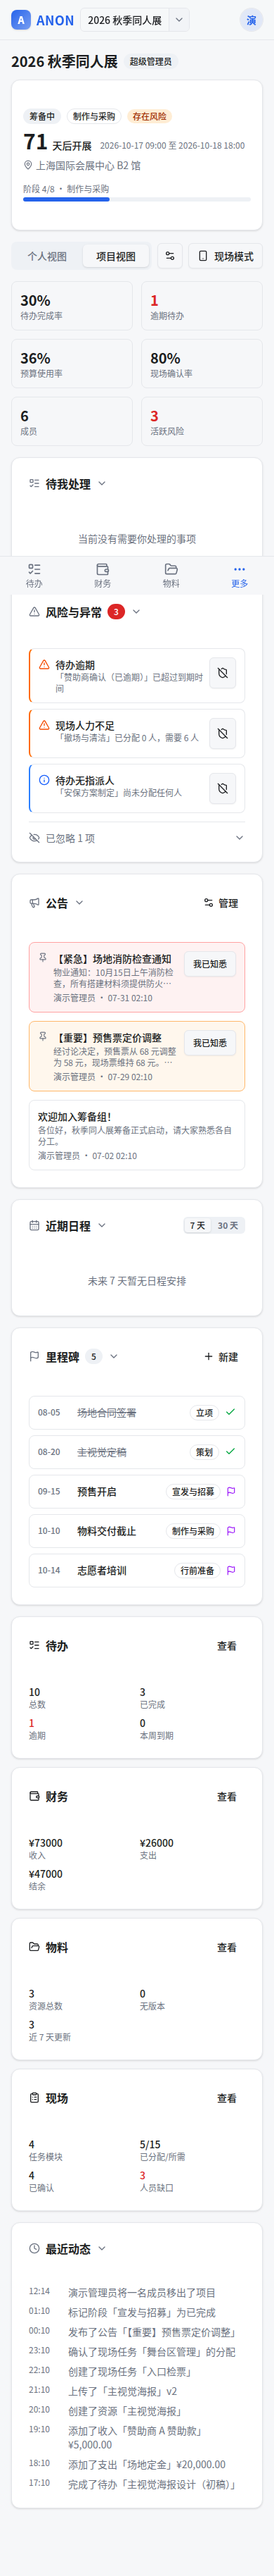
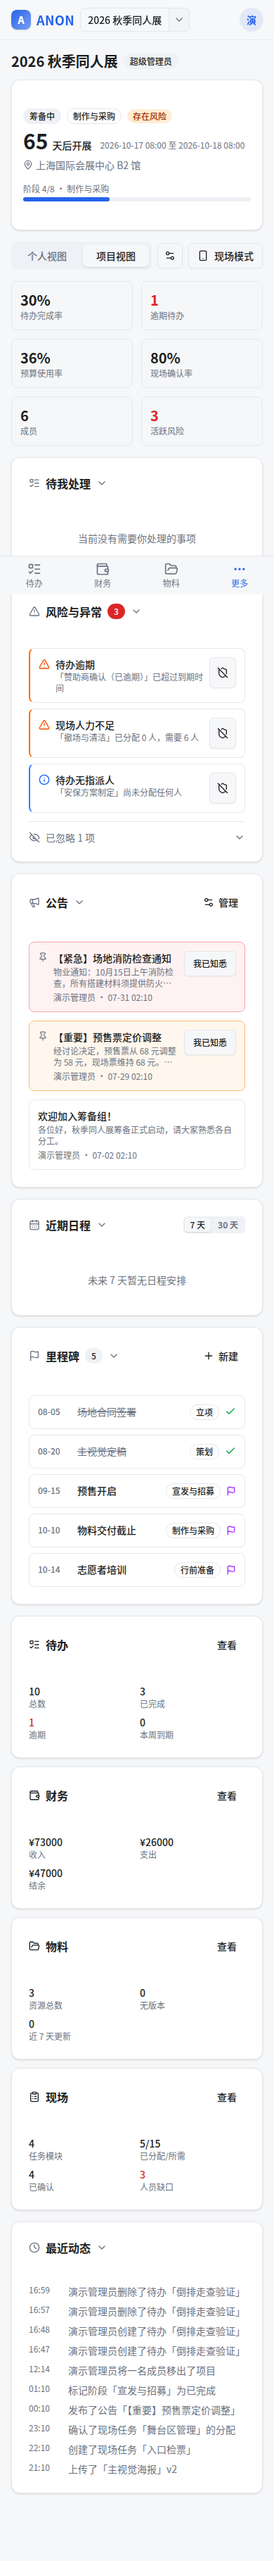
feat: 待办日期字段支持开展倒排录入
到期/节点/提醒三个日期字段新增「开展倒排」开关（项目已设开展日期时显示），
按「开展前 N 天 + 时刻」录入并实时预览换算结果；倒排仅为录入辅助，保存时
一次性换算为绝对日期入库，开展日期变更不联动重算。纯前端，契约零改动。

diff --git a/frontend/src/components/project/TodoFormDialog.tsx b/frontend/src/components/project/TodoFormDialog.tsx
@@ -2,23 +2,114 @@ import { useEffect, useState, type FormEvent } from 'react';
 import { ChevronDown } from 'lucide-react';
 import { toast } from 'sonner';
 import { api } from '../../api/client';
+import { daysBeforeLocal } from '../../lib/datetime';
 import type { Member, TodoItem } from '../../types';
 import { FormOverlay } from '@/components/FormOverlay';
 import { Button } from '@/components/ui/button';
 import { Checkbox } from '@/components/ui/checkbox';
 import { Input } from '@/components/ui/input';
 import { Label } from '@/components/ui/label';
+import { Switch } from '@/components/ui/switch';
 import { Textarea } from '@/components/ui/textarea';
 
 interface Props {
   open: boolean;
   onOpenChange: (open: boolean) => void;
   projectId: string;
+  /** 项目开展日期 ISO；为 null 时日期字段不显示「开展倒排」开关 */
+  startDate: string | null;
   members: Member[];
   knownCategories: string[];
   /** 完整 TodoItem = 编辑模式；{ title } = 创建模式（可预填标题） */
   initial?: TodoItem | { title: string };
   onSaved: () => Promise<void>;
+}
+
+interface TodoDateFieldProps {
+  id: string;
+  label: string;
+  /** datetime-local 值，仍由外层 useState 持有；倒排模式下换算结果直接写回同一 value */
+  value: string;
+  onChange: (v: string) => void;
+  startDate: string | null;
+}
+
+/** 日期字段：默认绝对时间录入；startDate 非空时可切「开展倒排」（开展前 N 天 + 时刻），换算结果实时写回 value，
+ *  保存后与普通绝对日期走同一提交链路。子状态随 Dialog 关闭卸载，无需显式 reset。 */
+function TodoDateField({ id, label, value, onChange, startDate }: TodoDateFieldProps) {
+  const [rel, setRel] = useState(false);
+  const [days, setDays] = useState('1');
+  const [time, setTime] = useState('12:00');
+
+  /** days 允许输入中暂为空串，换算时按 0 处理 */
+  const applyRel = (d: string, t: string) => {
+    if (!startDate) return;
+    onChange(daysBeforeLocal(startDate, parseInt(d) || 0, t));
+  };
+
+  const onToggle = (on: boolean) => {
+    setRel(on);
+    if (on) {
+      const t = value ? value.slice(11, 16) : '12:00';
+      setDays('1');
+      setTime(t);
+      if (startDate) onChange(daysBeforeLocal(startDate, 1, t));
+    }
+    // 关闭倒排：当前换算值保留在 datetime-local 中可继续手改
+  };
+
+  return (
+    <div className="space-y-1.5">
+      <div className="flex items-center justify-between">
+        <Label htmlFor={id}>{label}</Label>
+        {startDate && (
+          <label className="flex items-center gap-1.5 text-xs text-muted-foreground">
+            开展倒排
+            <Switch checked={rel} onCheckedChange={onToggle} />
+          </label>
+        )}
+      </div>
+      {!rel ? (
+        <Input
+          id={id}
+          type="datetime-local"
+          value={value}
+          onChange={(e) => onChange(e.target.value)}
+        />
+      ) : (
+        <div className="space-y-1.5">
+          <div className="flex items-center gap-2 text-sm text-muted-foreground">
+            开展前
+            <Input
+              id={id}
+              type="number"
+              min={0}
+              max={3650}
+              step={1}
+              className="w-20"
+              value={days}
+              onChange={(e) => {
+                setDays(e.target.value);
+                applyRel(e.target.value, time);
+              }}
+            />
+            天
+            <Input
+              type="time"
+              className="w-28"
+              aria-label="时刻"
+              value={time}
+              onChange={(e) => {
+                setTime(e.target.value);
+                applyRel(days, e.target.value);
+              }}
+            />
+          </div>
+          {value && <p className="text-xs text-muted-foreground">= {value.replace('T', ' ')}</p>}
+        </div>
+      )}
+    </div>
+  );
 }
 
 function toIso(v: string): string | undefined {
@@ -37,7 +128,7 @@ function isEdit(initial?: TodoItem | { title: string }): initial is TodoItem {
   return !!initial && 'id' in initial;
 }
 
-export function TodoFormDialog({ open, onOpenChange, projectId, members, knownCategories, initial, onSaved }: Props) {
+export function TodoFormDialog({ open, onOpenChange, projectId, startDate, members, knownCategories, initial, onSaved }: Props) {
   const editTarget = isEdit(initial) ? initial : null;
   const [title, setTitle] = useState('');
   const [assigneeIds, setAssigneeIds] = useState<string[]>([]);
@@ -134,15 +225,7 @@ export function TodoFormDialog({ open, onOpenChange, projectId, members, knownCa
             ))}
           </div>
         </div>
-        <div className="space-y-1.5">
-          <Label htmlFor="todo-form-due">到期时间</Label>
-          <Input
-            id="todo-form-due"
-            type="datetime-local"
-            value={dueAt}
-            onChange={(e) => setDueAt(e.target.value)}
-          />
-        </div>
+        <TodoDateField id="todo-form-due" label="到期时间" value={dueAt} onChange={setDueAt} startDate={startDate} />
 
         <button
           type="button"
@@ -167,24 +250,8 @@ export function TodoFormDialog({ open, onOpenChange, projectId, members, knownCa
                 {knownCategories.map((c) => <option key={c} value={c} />)}
               </datalist>
             </div>
-            <div className="space-y-1.5">
-              <Label htmlFor="todo-form-node">节点时间</Label>
-              <Input
-                id="todo-form-node"
-                type="datetime-local"
-                value={nodeAt}
-                onChange={(e) => setNodeAt(e.target.value)}
-              />
-            </div>
-            <div className="space-y-1.5">
-              <Label htmlFor="todo-form-remind">提醒时间</Label>
-              <Input
-                id="todo-form-remind"
-                type="datetime-local"
-                value={remindAt}
-                onChange={(e) => setRemindAt(e.target.value)}
-              />
-            </div>
+            <TodoDateField id="todo-form-node" label="节点时间" value={nodeAt} onChange={setNodeAt} startDate={startDate} />
+            <TodoDateField id="todo-form-remind" label="提醒时间" value={remindAt} onChange={setRemindAt} startDate={startDate} />
             <div className="space-y-1.5">
               <Label htmlFor="todo-form-note">备注</Label>
               <Textarea

diff --git a/frontend/src/components/help/content.ts b/frontend/src/components/help/content.ts
@@ -193,6 +193,7 @@ export const HELP_CHAPTERS: HelpChapter[] = [
         paragraphs: [
           '列表顶部的快速创建行：输入标题回车即建，适合现场随手记；右侧「详细」可带着已输入的标题打开完整表单。',
           '详细表单默认可见 标题、指派人、到期时间；「更多字段」展开后可填 类别（历史类别自动补全）、节点时间、提醒时间与备注。',
+          '项目已设开展日期时，三个日期字段右侧会出现「开展倒排」开关：开启后按「开展前 N 天 + 时刻」录入，下方实时预览换算出的具体日期时间。保存的只是换算后的绝对日期，之后调整开展日期不会联动修改已建待办；未设开展日期的项目不显示该开关。',
           '创建需要「创建待办」权限（预置角色默认包含）。',
         ],
         image: { src: '/help/tab-todos.png', alt: '待办 Tab', caption: '待办 Tab：快速创建、分组列表与进度时间线' },

diff --git a/frontend/src/lib/datetime.ts b/frontend/src/lib/datetime.ts
@@ -81,3 +81,13 @@ export function eventCountdown(startDate: string | null, endDate: string | null)
     cls: 'text-muted-foreground',
   };
 }
+
+/** 开展倒排换算：startIso 的本地日历日往前推 days 天，时刻设为 time（"HH:mm"）；返回 datetime-local 输入值。
+ *  输入非法返回空串。月份/年份回绕由 Date 构造函数自动处理。 */
+export function daysBeforeLocal(startIso: string, days: number, time: string): string {
+  const s = new Date(startIso);
+  if (Number.isNaN(s.getTime())) return '';
+  const [hh, mm] = time.split(':').map(Number);
+  const d = new Date(s.getFullYear(), s.getMonth(), s.getDate() - Math.max(0, Math.trunc(days)), hh || 0, mm || 0, 0, 0);
+  return toLocalInput(d.toISOString());
+}

diff --git a/frontend/src/components/project/TodosTab.tsx b/frontend/src/components/project/TodosTab.tsx
@@ -426,6 +426,7 @@ export default function TodosTab({ project, members, myPermissions }: Props) {
         open={formInitial !== null}
         onOpenChange={(o) => !o && setFormInitial(null)}
         projectId={project.id}
+        startDate={project.startDate}
         members={members}
         knownCategories={knownCategories}
         initial={formInitial ?? undefined}

diff --git a/docs/file-index.md b/docs/file-index.md
@@ -143,7 +143,7 @@
 - `src/types.ts` — 全部 API 共享类型
 - `src/index.css` — Tailwind v4 主题变量与全局样式
 - `src/vite-env.d.ts` — Vite / vite-plugin-pwa 客户端类型引用
-- `src/lib/datetime.ts` — 本地时间格式化 + 活动倒计时
+- `src/lib/datetime.ts` — 本地时间格式化 + 活动倒计时 + 开展倒排换算（daysBeforeLocal）
 - `src/lib/offlineQueue.ts` — 离线 POST 队列（现场模式用）
 - `src/lib/push.ts` — Web Push 订阅管理
 - `src/lib/utils.ts` — cn() 类名合并
@@ -173,7 +173,7 @@
 
 ### 项目 Tab `src/components/project/`（挂在 ProjectHome，直调对应后端域）
 - `DashboardTab.tsx` — 仪表盘聚合（内嵌公告/里程碑/阶段卡）
-- `TodosTab.tsx` + `TodoFormDialog.tsx` + `TodoActionSheet.tsx` — 待办列表/表单/完成与进度弹层
+- `TodosTab.tsx` + `TodoFormDialog.tsx` + `TodoActionSheet.tsx` — 待办列表/表单（日期字段支持开展倒排录入）/完成与进度弹层
 - `FinanceTab.tsx` — 记账/门票/CSV 导出
 - `MaterialsTab.tsx` — 资料分类/版本/实物入口
 - `PhysicalTab.tsx` — 实物分类/台账/状态/日志

diff --git a/docs/features.md b/docs/features.md
@@ -245,6 +245,7 @@ ANON 是一个面向活动（展会、同人活动、演出等）组织团队的
 
 - **快速创建**（列表顶部）：输入标题回车即建，适合现场随手记。右侧「详细」可带着已输入的标题打开完整表单
 - **详细表单**：默认可见 标题（必填）/ 指派人（成员多选）/ 到期时间；「更多字段」折叠区展开后可填 类别（历史类别自动补全）、节点时间、提醒时间、备注
+- **开展倒排录入**：项目已设开展日期时，到期/节点/提醒三个日期字段右侧出现「开展倒排」开关；开启后按「开展前 N 天 + 时刻」录入并实时预览换算结果。倒排仅是录入辅助——保存时一次性换算为绝对日期入库，之后修改开展日期不会联动重算已建待办；未设开展日期的项目不显示开关
 - 需要 `todo:create` 权限（预置角色默认包含；既有项目的自定义角色可由管理者在「角色」Tab 勾选补全）
 
 ### 分组列表

diff --git a/README.md b/README.md
@@ -25,7 +25,7 @@
 
 ### 待办：进度追踪
 
-快速创建（标题回车即建）与详细表单，按类别分组列表；完成前可多次提交进度（备注+附件）形成时间线，完成后卡片一键直达完成；编辑/重新打开、筛选排序、导出模板与按新项目日期一键批量生成一应俱全。
+快速创建（标题回车即建）与详细表单，按类别分组列表；日期字段支持按「开展前 N 天」倒排录入（保存为绝对日期，不联动重算）；完成前可多次提交进度（备注+附件）形成时间线，完成后卡片一键直达完成；编辑/重新打开、筛选排序、导出模板与按新项目日期一键批量生成一应俱全。
 
 ![待办 Tab](frontend/public/help/tab-todos.png)
 
